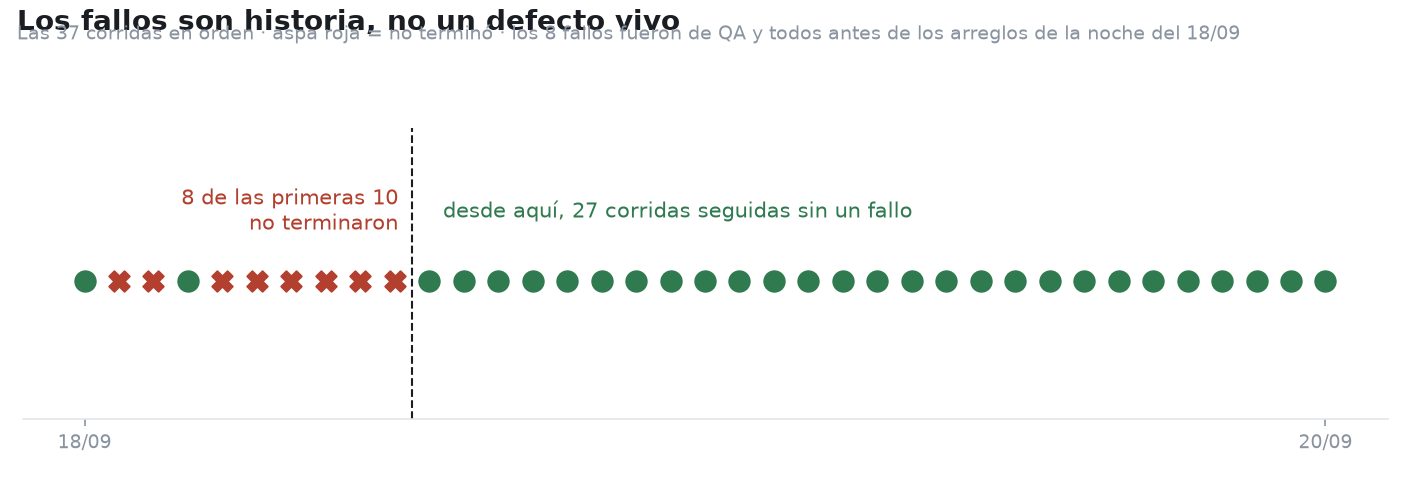
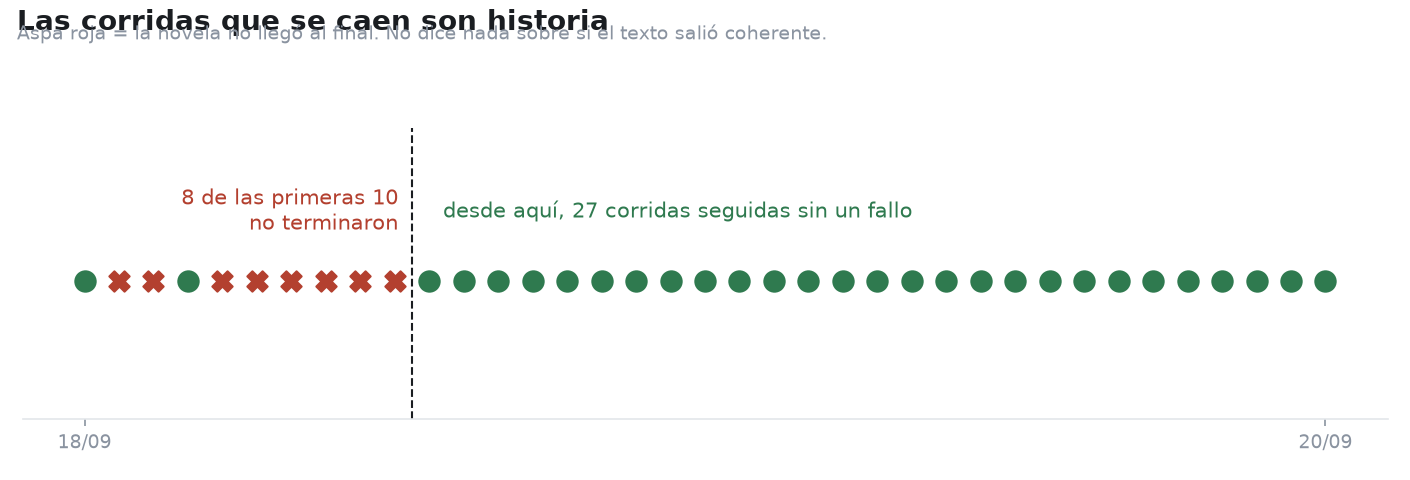
Las graficas decian una cosa y el dibujo otra
La de premisas tenia el eje en minutos y las etiquetas en porcentaje, asi
que las novelas de 15 capitulos parecian mas dispersas --16 minutos de
recorrido frente a 9-- cuando en proporcion son la mitad de dispersas.
Ahora va en desviacion sobre la media de cada columna y el dibujo dice lo
mismo que la etiqueta.

Y «los fallos son historia» se leia como que los libros salen sin
contradicciones. Habla solo de corridas que no llegan al final. Dicho en
el titulo y en el texto.

Las dos cosas las vio el usuario leyendo las graficas.

Changed region(s): [[0.0, 0.0, 0.8738, 0.0938]]

diff --git a/creador-novelas/herramientas/eda.py b/creador-novelas/herramientas/eda.py
@@ -25,6 +25,7 @@ PRECIOS = json.loads((RAIZ / "config" / "precios.json").read_text(encoding="utf-
 TINTA, SUAVE, MALLA = "#1A1D21", "#8A93A0", "#E3E6EA"
 ROJO, VERDE = "#B3402F", "#2F7A4F"
 COLOR = {"escritor": "#C2703D", "qa": "#3D6FA8", "extractor": "#7E9B4E", "orquestador": "#8A6BA8"}
+NL = chr(10)
 NOMBRE = {"escritor": "Escritor", "qa": "Revisor", "extractor": "Extractor", "orquestador": "Orquestador"}
 
 
@@ -214,24 +215,31 @@ fig.savefig(SALIDA / "emparejado.png", facecolor="white"); plt.close(fig)
 print("   emparejado.png")
 
 # ------------------------------------------------------------------ 4. premisa
-fig, ax = lienzo(9.0, 4.4)
-g2 = [("base", "base\n3 ag. + opus"), ("dos-agentes-sonnet", "2 ag. + sonnet"),
-      ("sin-aristas", "15 caps\nsin aristas"), ("aristas-dos-agentes", "15 caps\ncon aristas")]
+# El eje va en desviacion sobre la media de cada columna, no en minutos. Con minutos, las novelas
+# de 15 capitulos parecian mas dispersas --16 min de recorrido frente a 9-- cuando en proporcion
+# son la mitad de dispersas: el ojo leia lo contrario de lo que decia la etiqueta.
+fig, ax = lienzo(9.2, 4.6)
+g2 = [("base", "base" + NL + "3 ag. + opus"), ("dos-agentes-sonnet", "dos agentes" + NL + "+ sonnet"),
+      ("sin-aristas", "15 caps" + NL + "sin aristas"), ("aristas-dos-agentes", "15 caps" + NL + "con aristas")]
+etiquetas = []
 for i, (v, et) in enumerate(g2):
     mins = [num(r, "minutos") for r in corridas
             if r["variante"] == v and r["completa"] == "1" and num(r, "minutos")]
     if not mins: continue
-    ax.vlines(i, min(mins), max(mins), color=SUAVE, lw=1.4)
-    ax.scatter([i] * len(mins), mins, s=44, color=COLOR["escritor"], zorder=5, edgecolor="white", lw=.8)
-    ax.scatter([i], [st.mean(mins)], s=140, marker="_", color=TINTA, lw=2.6, zorder=6)
-    ax.text(i + .18, st.mean(mins),
-            f"{100*(max(mins)-min(mins))/st.mean(mins):.0f} % de recorrido\ncon la variante fija",
-            fontsize=8.6, color=TINTA, va="center")
-ax.set_xticks(range(len(g2))); ax.set_xticklabels([e for _, e in g2], fontsize=9, color=TINTA)
-ax.set_xlim(-.5, len(g2) - .1); ax.set_ylabel("reloj (min)", color=SUAVE, fontsize=9)
+    m = st.mean(mins)
+    rel = [100 * (x - m) / m for x in mins]
+    ax.vlines(i, min(rel), max(rel), color=SUAVE, lw=1.4)
+    ax.scatter([i] * len(rel), rel, s=46, color=COLOR["escritor"], zorder=5, edgecolor="white", lw=.8)
+    ax.scatter([i], [0], s=160, marker="_", color=TINTA, lw=2.6, zorder=6)
+    ax.text(i, max(rel) + 3.4, f"{max(rel)-min(rel):.0f} %", ha="center", fontsize=13, weight="bold", color=TINTA)
+    etiquetas.append(et + NL + f"media {m:.0f} min")
+ax.axhline(0, color=MALLA, lw=1)
+ax.set_xticks(range(len(etiquetas))); ax.set_xticklabels(etiquetas, fontsize=9, color=TINTA)
+ax.set_xlim(-.5, len(etiquetas) - .5)
+ax.set_ylabel("desviacion sobre la media de su columna", color=SUAVE, fontsize=9)
+ax.yaxis.set_major_formatter(FuncFormatter(lambda v, _: f"{v:+.0f} %"))
 guardar(fig, "premisa-vs-arquitectura.png", "La premisa mueve el reloj tanto como la arquitectura",
-        "Cada punto es una novela. Dentro de cada columna la variante no cambia: todo lo que se ve "
-        "ahí es la premisa y el azar.")
+        "Dentro de cada columna la variante no cambia: lo que se ve es la premisa y el azar.")
 
 # ------------------------------------------------------------------ 5. fiabilidad
 fig, ax = lienzo(9.4, 3.2)
@@ -249,9 +257,8 @@ ax.text(corte - .9, .5, f"{fallos} de las primeras {corte}\nno terminaron", font
 ax.set_ylim(-1, 1.1); ax.set_yticks([]); ax.grid(False)
 ax.spines["left"].set_visible(False)
 ax.set_xticks([0, len(orden) - 1]); ax.set_xticklabels(["18/09", "20/09"], color=SUAVE)
-guardar(fig, "fiabilidad.png", "Los fallos son historia, no un defecto vivo",
-        "Las 37 corridas en orden · aspa roja = no terminó · los 8 fallos fueron de QA y todos "
-        "antes de los arreglos de la noche del 18/09")
+guardar(fig, "fiabilidad.png", "Las corridas que se caen son historia",
+        "Aspa roja = la novela no llegó al final. No dice nada sobre si el texto salió coherente.")
 
 # ------------------------------------------------------------------ números
 print("\n== números para el documento ==")

diff --git a/ANALISIS-DATOS.md b/ANALISIS-DATOS.md
@@ -115,7 +115,10 @@ No significa que QA sobre —revisar cada capítulo salió más rápido que revi
 
 ![Premisa frente a arquitectura](graficas/premisa-vs-arquitectura.png)
 
-Con la variante **fija**, cambiando solo la premisa, el reloj se mueve:
+Con la variante **fija**, cambiando solo la premisa, el reloj se mueve. La gráfica va en desviación
+sobre la media de cada columna y no en minutos: medido en minutos, las novelas de 15 capítulos
+parecen más dispersas --16 minutos de recorrido frente a 9-- cuando en proporción son la mitad de
+dispersas, y el ojo leía lo contrario de lo que decía la etiqueta.
 
 | variante | recorrido |
 |---|---|
@@ -133,12 +136,16 @@ También se ve que las novelas largas son más estables: con quince capítulos l
 
 ---
 
-## 6. Los fallos son historia, no un defecto vivo
+## 6. Las corridas que se caen son historia
 
 ![Fiabilidad en el tiempo](graficas/fiabilidad.png)
 
 **8 de las 37 corridas no terminaron**, un 22 %. Todas por QA: cuatro dejaron el manuscrito pausado
 y cuatro no pudieron cerrar la resolución.
+
+Cuidado con la palabra «fallo» aquí: significa **que la novela no llegó al final**, no que el texto
+sea coherente. Son dos medidas distintas y esta sección solo habla de la primera. Lo que queda de
+contradicciones en el texto acabado se mide aparte, con `herramientas/retencion.py`.
 
 Pero están todas en las **primeras nueve corridas**. Desde la noche del 18/09 hay **27 corridas
 seguidas sin un solo fallo**, incluidas las siete de quince capítulos, que son las largas. La tasa
